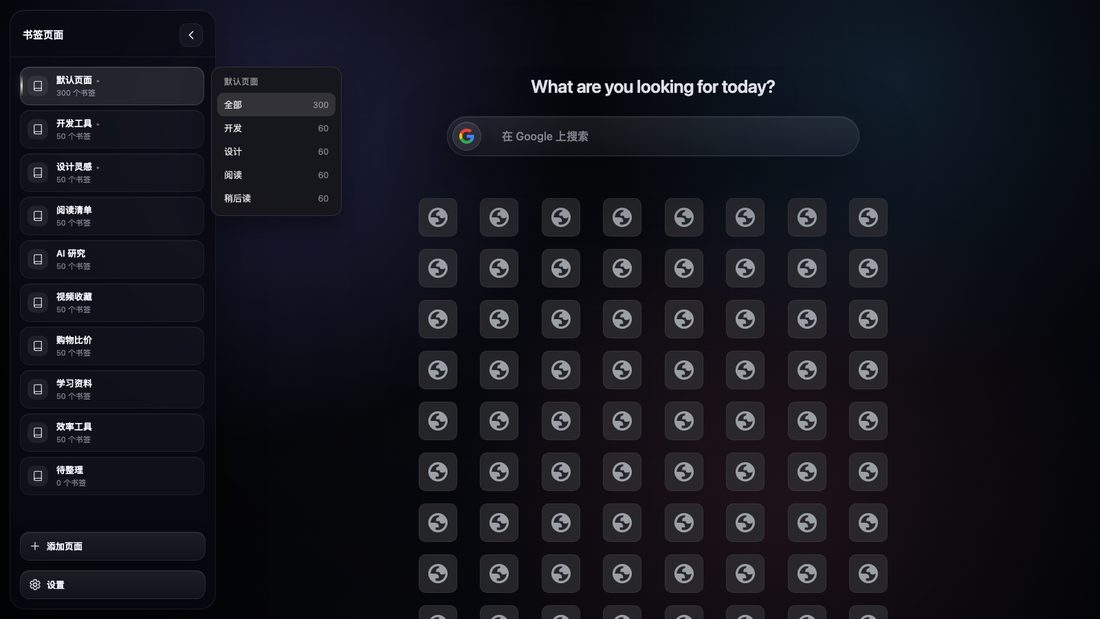
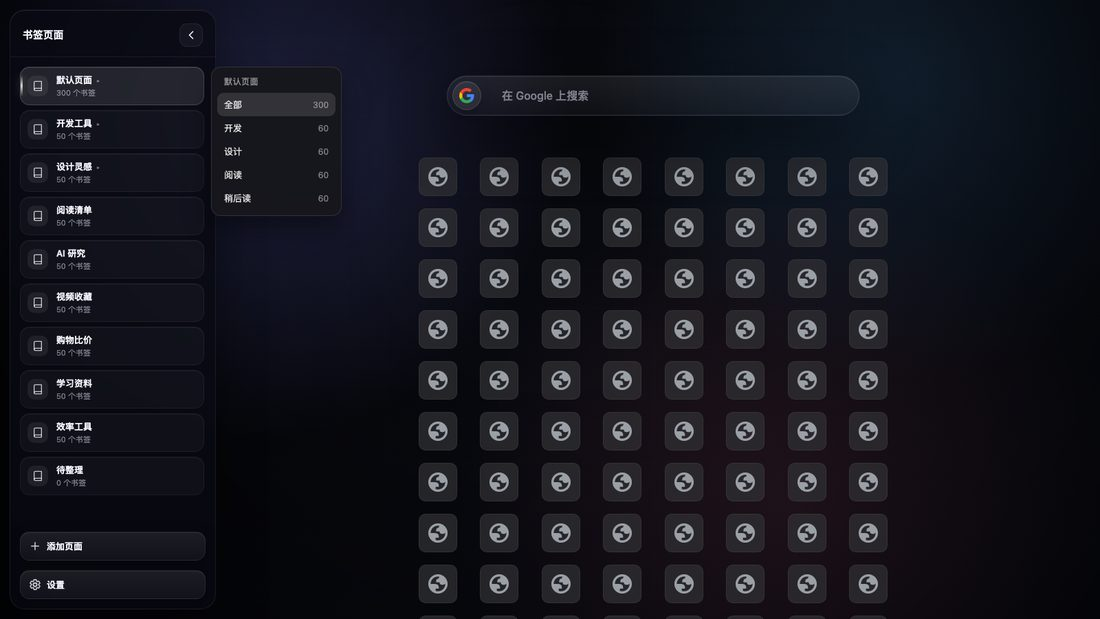
v2.0.1: 移除搜索框上方的页面标题行
- index.html 删除 <h1 class="page-title">，main 保留 aria-label 地标
- 清理 .page-title 样式 / keyframes / reduced-motion 规则；移动端顶部留白适配触发器
- 审计工具容忍无标题（不再误报 TITLE-SQUEEZED/OVERLAP），功能回归断言标题行已移除
- README 预览图同步重拍，版本 2.0.1；CHANGELOG 与审计报告补充说明

Changed region(s): [[0.3709, 0.1228, 0.8036, 1.0]]

diff --git a/src/css/layout.css b/src/css/layout.css
@@ -4,8 +4,7 @@
    职责：
    1. .container 外壳（桌面侧栏展开时整体右移，不再用 padding 挤压）
    2. .app-main 主内容列：纵向滚动 + 水平居中 + min-width:0
-   3. .page-title 真实标题（opacity/translate 入场，禁止宽度动画）
-   4. 桌面 / 移动断点的外壳差异
+   3. 桌面 / 移动断点的外壳差异
    宽度规则：内部一律 % / min()，任何视口不得出现横向滚动。
    ============================================================ */
 
@@ -51,38 +50,6 @@
   display: none;
 }
 
-/* ---------- 页面标题（替代旧 .container::before 伪元素打字动画） ---------- */
-.page-title {
-  flex: 0 0 auto;
-  width: 100%;
-  max-width: var(--content-max);
-  margin: 0 0 28px;
-  padding: 0;
-  color: rgba(247, 248, 255, 0.92);
-  font-family: var(--font-sans);
-  font-size: clamp(18px, 2vw, 26px);
-  font-weight: 600;
-  line-height: 1.2;
-  letter-spacing: -0.02em;
-  text-align: center;
-  text-shadow:
-    0 14px 44px rgba(0, 0, 0, 0.46),
-    0 0 26px rgba(124, 131, 255, 0.18);
-  /* 只做透明度/位移，绝不 do width/ch 动画，避免回流与 CLS */
-  animation: page-title-in var(--dur-slow) var(--ease-standard) both;
-}
-
-@keyframes page-title-in {
-  from {
-    opacity: 0;
-    transform: translate3d(0, 8px, 0);
-  }
-  to {
-    opacity: 1;
-    transform: translate3d(0, 0, 0);
-  }
-}
-
 /* ---------- 桌面（>768px）：侧栏展开时整体右移 ---------- */
 @media (min-width: 769px) {
   /* 注意：这里刻意不给 margin-left / width 加 transition。
@@ -112,17 +79,9 @@
     width: 100%;
   }
 
+  /* 顶部留出触发器（22 + 46 = 68px）的空间：v2.0.1 移除标题行后搜索框上移，避免与触发器重叠 */
   .app-main {
-    padding: 66px 16px 24px;
-  }
-
-  .page-title {
-    margin-bottom: 24px;
-    font-size: 20px;
-    line-height: 1.3;
-    /* 窄屏允许折行，避免 nowrap 造成横向溢出 */
-    white-space: normal;
-    overflow-wrap: anywhere;
+    padding: 84px 16px 24px;
   }
 
   /* 移动抽屉打开时锁定背景滚动 */

diff --git a/src/index.html b/src/index.html
@@ -81,9 +81,7 @@
     <div class="sidebar-overlay" id="sidebarOverlay" hidden></div>
 
     <!-- 主内容区：标题 / 搜索 / 分类提示条 / 书签网格 -->
-    <main class="app-main" id="appMain" role="main">
-      <h1 class="page-title">What are you looking for today?</h1>
-
+    <main class="app-main" id="appMain" role="main" aria-label="书签主页">
       <div class="search-container" role="search">
         <div class="search-box-wrapper">
           <div class="search-select-container">

diff --git a/src/css/perf.css b/src/css/perf.css
@@ -101,7 +101,6 @@ body.perf-mode .square-container {
   }
 
   /* 一次性入场动画直接呈现最终状态 */
-  .page-title,
   .name-dialog,
   .name-dialog-header,
   .name-dialog-content,

diff --git a/README.md b/README.md
@@ -8,7 +8,7 @@
 
 <p align="center">
   <img src="https://img.shields.io/badge/Manifest-V3-blue?style=flat-square" alt="manifest version"/>
-  <img src="https://img.shields.io/badge/version-2.0.0-7c83ff?style=flat-square" alt="version"/>
+  <img src="https://img.shields.io/badge/version-2.0.1-7c83ff?style=flat-square" alt="version"/>
   <img src="https://img.shields.io/badge/tests-64%20passing-3fb950?style=flat-square" alt="tests"/>
   <img src="https://img.shields.io/badge/License-MIT-green?style=flat-square" alt="license"/>
   <img src="https://img.shields.io/badge/Platform-Chrome-yellow?style=flat-square" alt="platform"/>
@@ -268,7 +268,7 @@ node tests/run-tests.mjs
 #### 排版修复（全部由真实 Chrome 155 + CDP 审计驱动）
 
 - **P0 侧栏展开时内容越界/被侧栏盖住**（834/900px 视口：网格越出视口 60–93px、与侧栏重叠 3.1 万–7.7 万 px²、方块中心点击命中侧栏）：改为 `margin-left/width` 让位 + 内部块 `width:100%/max-width:min(720px,100%)`，不再用 `padding-left` + `100vw`。
-- **P0 300 条书签时标题被 flex 压扁**（28.6px → 4.6px）：改用真实 `<h1 class="page-title">` + `flex:0 0 auto`，四个主内容子项都不参与压缩。
+- **P0 300 条书签时标题被 flex 压扁**（28.6px → 4.6px）：改用真实 `<h1 class="page-title">` + `flex:0 0 auto`。**（v2.0.1 起已按需求移除该标题行，相关样式/审计断言同步清理；下方性能与布局数据不受影响。）**
 - **P1 不可见的页面操作按钮仍可点击**（53/73 样本误触风险）：`visibility:hidden + pointer-events:none`，hover/focus-within 才显示。
 - **P1 移动端搜索下拉左侧被裁 60px**：去掉居中 `translateX(-50%)`，改为左对齐 + 视口 clamp。
 - **P1 设置面板打开时 `aria-hidden` 仍为 true、背景无 inert、焦点不进**：完整 aria/inert/焦点陷阱/Esc 关闭/焦点回归。

diff --git a/docs/ARCHITECTURE.md b/docs/ARCHITECTURE.md
@@ -166,7 +166,7 @@ export function mountSettingsPanel(...);
 
 ## 4. HTML 结构（Lead 负责）
 
-- 顶部：真实 `<h1 class="page-title">` 替代 `.container::before` 伪元素打字动画（避免宽度动画造成回流/CLS）。
+- 顶部：不放页面标题行（v2.0.1 起移除搜索框上方的 `<h1 class="page-title">`；保留 `<main>` 地标与 `aria-label`，避免无意义占位与回流）。
 - 内容壳：`.container > .app-main`，`.app-main` 负责居中与滚动；搜索、文件夹条、书签网格都放在其中。
 - 设置面板：`<aside class="settings-panel"><header>…</header><div class="settings-body">…</div></aside>`，header 固定、body 自己滚动。
 - 所有 `<button>` 显式 `type="button"`；搜索/设置/侧栏补齐 `aria-expanded`、`aria-controls`、`aria-hidden`。
@@ -248,6 +248,8 @@ src/
   `html[data-app-ready="true"] .container` 下，首帧前类名生效不播放动画。
 - 结果（真实 Chrome headless）：CLS **0**（打开设置前后都 0）；300 条书签时
   title h=31px / search h=58px / squares 2830px 不被压缩 / 无横向溢出 / 控制台 0 error。
+  > v2.0.1 起已按需求移除搜索框上方的页面标题行（`.page-title` / `<h1>`），
+  > 相关样式与审计/回归断言同步清理；首屏布局与 CLS 结论不变。
 
 ### 8.4 数据兼容
 

diff --git a/docs/CHANGELOG.md b/docs/CHANGELOG.md
@@ -1,8 +1,14 @@
-# 版本历史（v1.5 – v1.9）
+# 版本历史（v1.5 – v2.0.1）
 
-> 本文件由 README 迁移而来，保留 v1.5–v1.9 的开发记录。
+> 本文件由 README 迁移而来，保留 v1.5–v1.9 的详细开发记录；v2.0 与 v2.0.1 摘要见下。
 > v2.0 的架构重构与验收结果见 [README](../README.md#-版本历史) 与
 > [ARCHITECTURE.md](ARCHITECTURE.md) / [LAYOUT-AFTER.md](LAYOUT-AFTER.md) / [PERF-AFTER.md](PERF-AFTER.md)。
+
+## v2.0.1（2026-10）
+
+- 按需求移除搜索框上方的页面标题行（`<h1 class="page-title">What are you looking for today?</h1>`）
+- 清理 `.page-title` 样式 / keyframes / reduced-motion 规则；审计与功能回归脚本改为容忍无标题并断言标题行已移除
+- 搜索框自动上移（布局其余不变），README 预览图同步更新
 
 ## v2.0（2026-10）
 

diff --git a/docs/LAYOUT-AFTER.md b/docs/LAYOUT-AFTER.md
@@ -1,5 +1,7 @@
 # Googlehome 布局审计报告（重构后 v2.0 · after）
 
+> 注：v2.0.1 已按需求移除搜索框上方的页面标题行（`.page-title` / `<h1>`）；本报告中标题相关指标为 v2.0 验收时状态，其余结论不变。
+
 > 审计对象：`src/`（manifest `version: "2.0"`，8 层 CSS + ESM 单入口，CSS 总行数 2406、`!important` 仅 32 处且只在 `perf.css`）
 > 审计方式：真实 Chrome **155.0.8059.85**（**headless=new 后台模式**，按用户指令）+ CDP（`tools/audit.mjs`），headless 下扩展加载/截图/布局测量均正常
 > 审计时间：2026-10-22 · 样本：**73 个**（12 档视口 × 12 状态，与基线 `docs/LAYOUT-AUDIT.md` 完全同矩阵）· 截图：`audit/after/screens/`（73 张）· 原始数据：`audit/after/layout.json`

diff --git a/docs/PERF-AFTER.md b/docs/PERF-AFTER.md
@@ -1,5 +1,7 @@
 # Googlehome 性能基线对比（v2.0 · after）
 
+> 注：v2.0.1 已按需求移除搜索框上方的页面标题行（`.page-title` / `<h1>`）；本报告中标题相关指标为 v2.0 验收时状态，其余结论不变。
+
 > 审计对象：`src/`（manifest 2.0，ESM 单入口 + 8 层 CSS）· 真实 Chrome 155（**headless=new** 后台模式）+ CDP（`tools/perf-audit.mjs`）
 > 数据规模与基线完全一致：**10 个页面，当前页 300 条书签，其余 8 页各 50 条、1 页空**；视口 1600×900
 > 原始数据：`audit/after/perf.json`（与 `audit/before/perf.json` 同结构）· 对比表：`audit/after/compare.md` / `compare.json`
